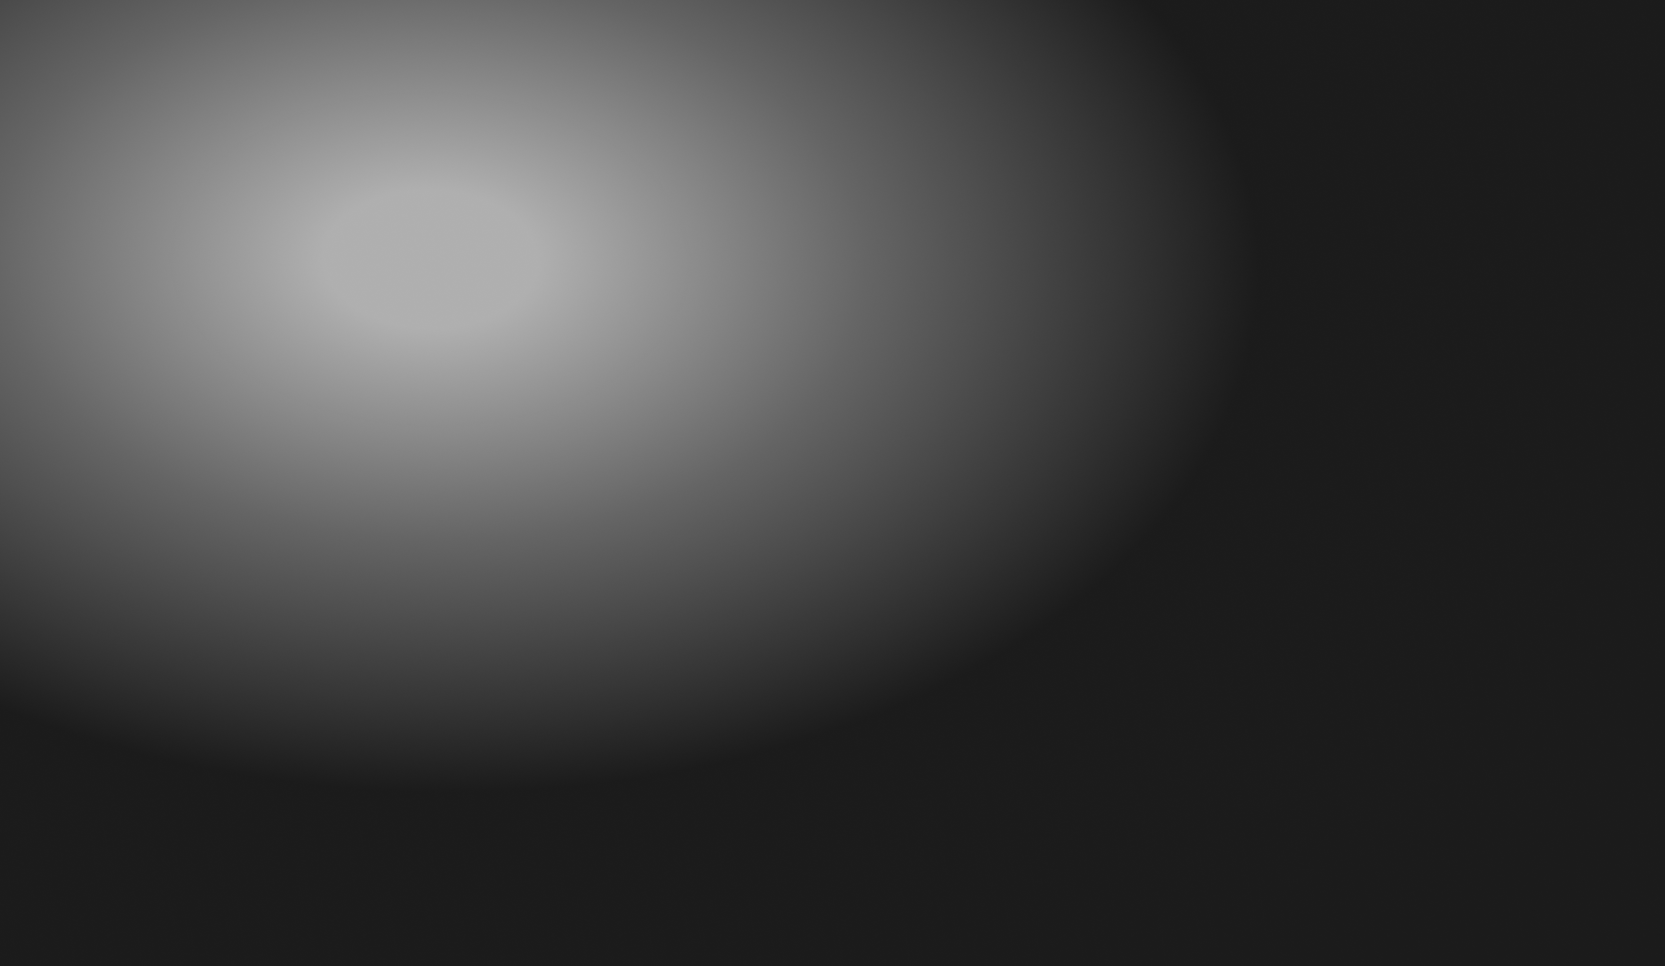
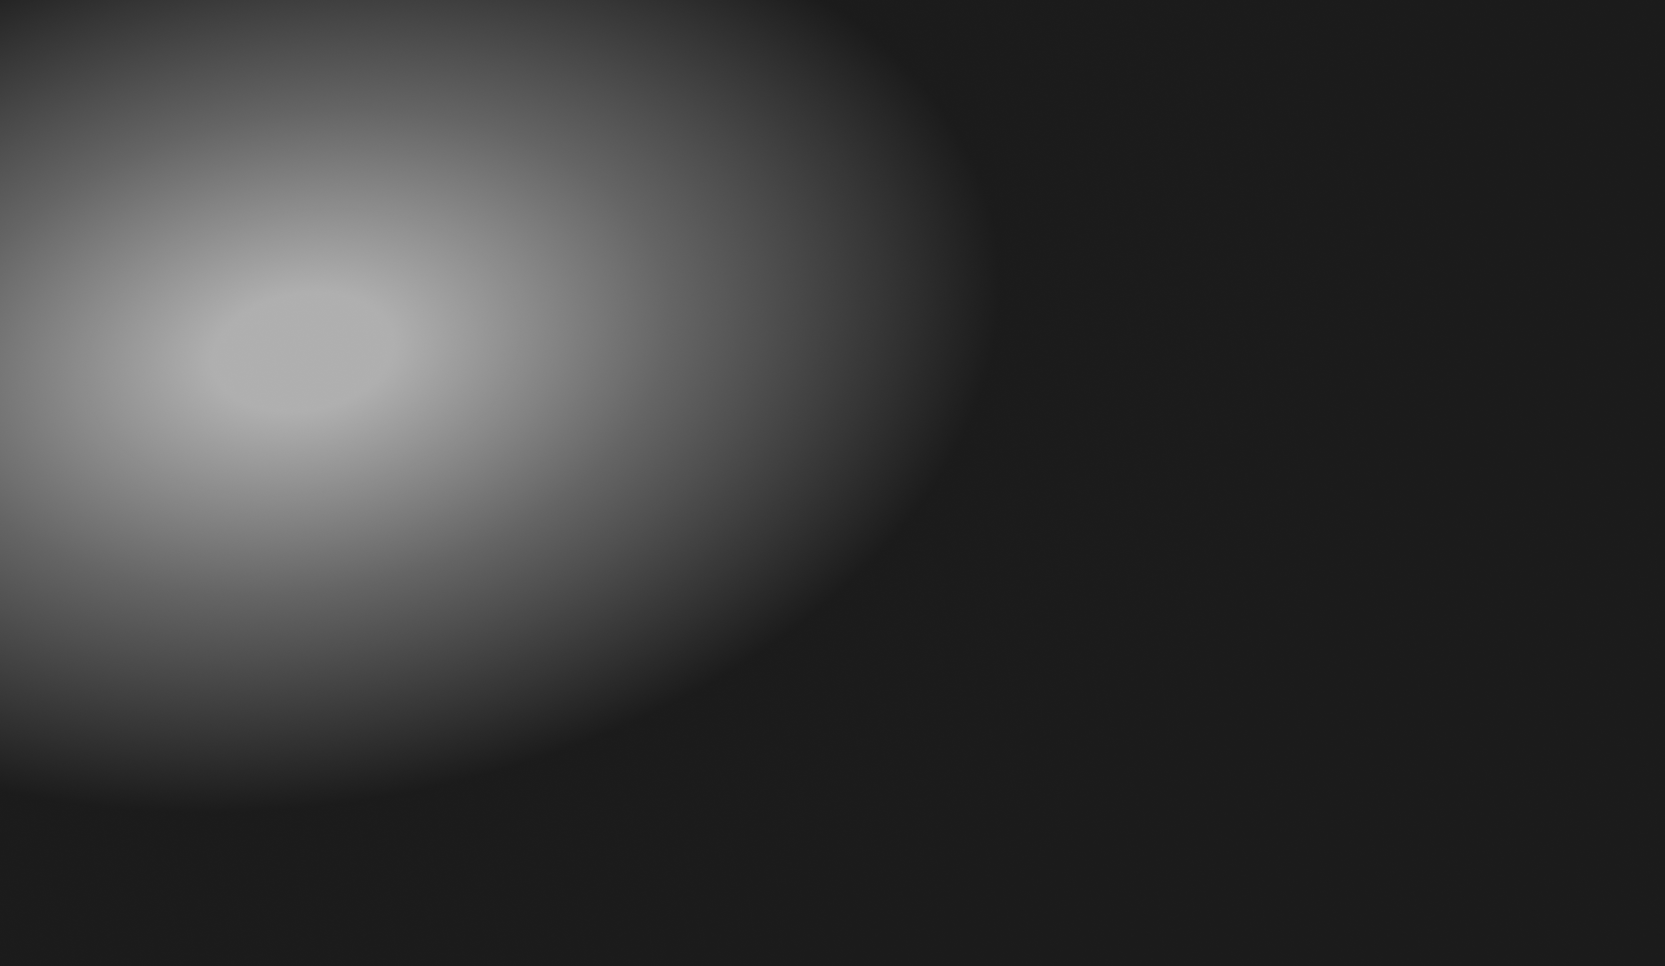
FIX LAYOUT

diff --git a/public/js/slider.js b/public/js/slider.js
@@ -1,52 +1,47 @@
-document.addEventListener("DOMContentLoaded", function () {
-    const slides = document.querySelectorAll('[data-slide]');
-    const totalSlides = slides.length;
+// /public/js/slider.js
+class HeroSlider {
+    constructor() {
+        this.slides = document.querySelectorAll('[data-slide]');
+        this.index = 0;
+        this.init();
+    }
 
-    const nextButton = document.getElementById('next-slide');
-    const prevButton = document.getElementById('prev-slide');
+    init() {
+        if (!this.slides.length) return;
 
-    let currentIndex = 0;
-    let interval;
+        this.updateContent();
+        document.getElementById('next-slide')?.addEventListener('click', () => this.next());
+        document.getElementById('prev-slide')?.addEventListener('click', () => this.prev());
+    }
 
-    function showSlide(index) {
-        slides.forEach((slide, i) => {
-            slide.classList.toggle('opacity-100', i === index);
-            slide.classList.toggle('opacity-0', i !== index);
+    updateContent() {
+        this.slides.forEach((slide, i) => {
+            slide.style.opacity = i === this.index ? '1' : '0';
         });
+
+        const current = this.slides[this.index];
+        if (!current) return;
+
+        document.getElementById('slide-title').textContent = current.dataset.title || '';
+        document.getElementById('slide-choice').textContent = current.dataset.choice || '';
+        document.getElementById('slide-type').textContent = current.dataset.type || '';
+        document.getElementById('slide-duration').textContent = current.dataset.duration || '';
+        document.getElementById('slide-year').textContent = current.dataset.year || '';
+        document.getElementById('slide-quality').textContent = current.dataset.quality || '';
+        document.getElementById('slide-episodes').textContent = current.dataset.episodes || '';
+        document.getElementById('slide-description').textContent = current.dataset.description || '';
+        document.getElementById('hero-link')?.setAttribute('href', current.dataset.link || '#');
     }
 
-    function nextSlide() {
-        currentIndex = (currentIndex + 1) % totalSlides;
-        showSlide(currentIndex);
+    next() {
+        this.index = (this.index + 1) % this.slides.length;
+        this.updateContent();
     }
 
-    function prevSlide() {
-        currentIndex = (currentIndex - 1 + totalSlides) % totalSlides;
-        showSlide(currentIndex);
+    prev() {
+        this.index = (this.index - 1 + this.slides.length) % this.slides.length;
+        this.updateContent();
     }
+}
 
-    function startAutoSlide() {
-        interval = setInterval(nextSlide, 8000); // setiap 8 detik
-    }
-
-    function stopAutoSlide() {
-        clearInterval(interval);
-    }
-
-    // Button event
-    nextButton?.addEventListener('click', () => {
-        stopAutoSlide();
-        nextSlide();
-        startAutoSlide();
-    });
-
-    prevButton?.addEventListener('click', () => {
-        stopAutoSlide();
-        prevSlide();
-        startAutoSlide();
-    });
-
-    // Inisialisasi
-    showSlide(currentIndex);
-    startAutoSlide();
-});
+document.addEventListener('DOMContentLoaded', () => new HeroSlider());

diff --git a/resources/css/app.css b/resources/css/app.css
@@ -4,6 +4,11 @@
 
 @import url('https://fonts.googleapis.com/css2?family=Cairo:wght@200..1000&display=swap');
 
+:root {
+    --primary-bg: rgba(255, 255, 255, 0.05);
+    --gradient-end: #000000cc;
+    --transition-time: 300ms;
+}
 
 
 

diff --git a/resources/views/welcome.blade.php b/resources/views/welcome.blade.php
@@ -127,7 +127,7 @@
         @endif
 
         {{-- 📦 Main Content Section --}}
-        <section class="w-full mx-auto grid grid-cols-1 lg:grid-cols-4 gap-6 px-4 pt-2 relative z-10 bg-no-repeat" style="background-image: url('{{ asset('img/layerbottom.png') }}');">
+        <section class="w-full mx-auto grid grid-cols-1 lg:grid-cols-4 gap-6 px-4 pt-2 relative z-10 bg-no-repeat bg-top" style="background-image: url('{{ asset('img/layerbottom.png') }}');">
             {{-- Latest Releases --}}
             <div class="lg:col-span-3 order-1 lg:order-1 mt-24 mr-10">
                 <h2 class="text-lg md:text-xl font-bold mb-6 pl-2 text-white">أحدث الإصدارات</h2>

diff --git a/resources/views/layouts/app.blade.php b/resources/views/layouts/app.blade.php
@@ -15,6 +15,7 @@
 
     <!-- Scripts -->
     @vite(['resources/css/app.css', 'resources/js/app.js'])
+    @vite(['resources/js/slider.js'])
 
     <!-- Styles -->
     @livewireStyles
